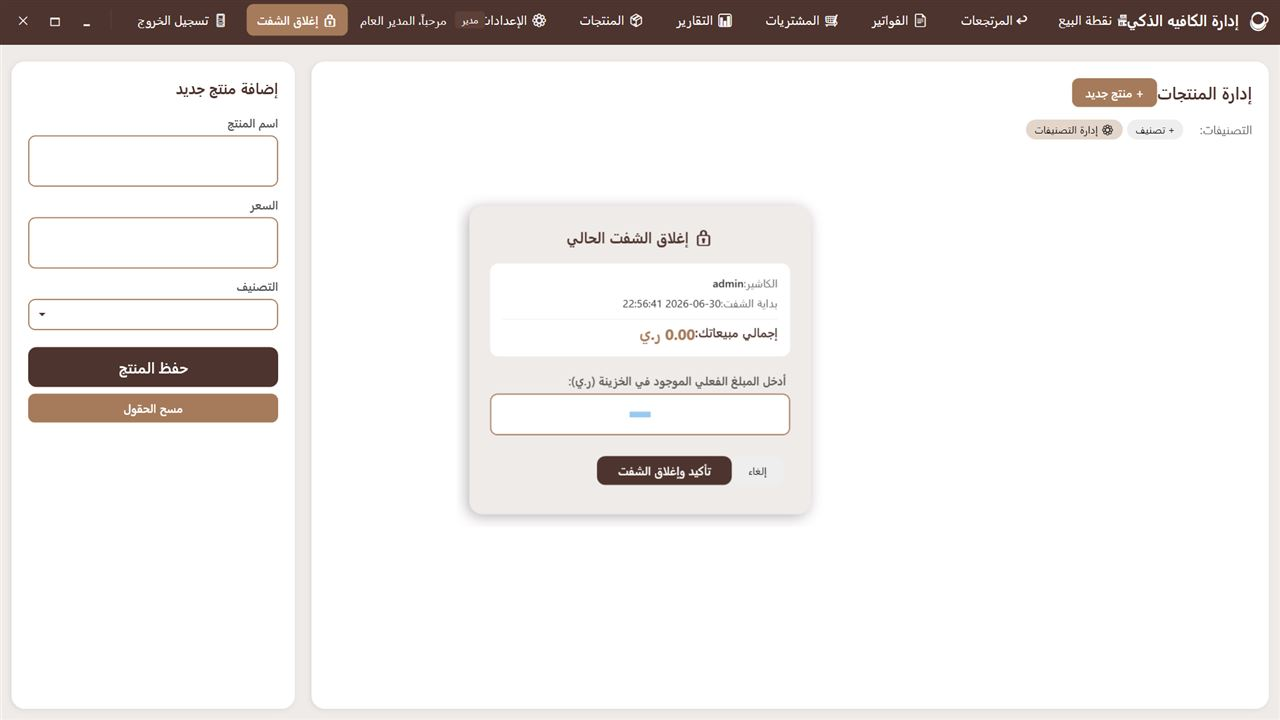
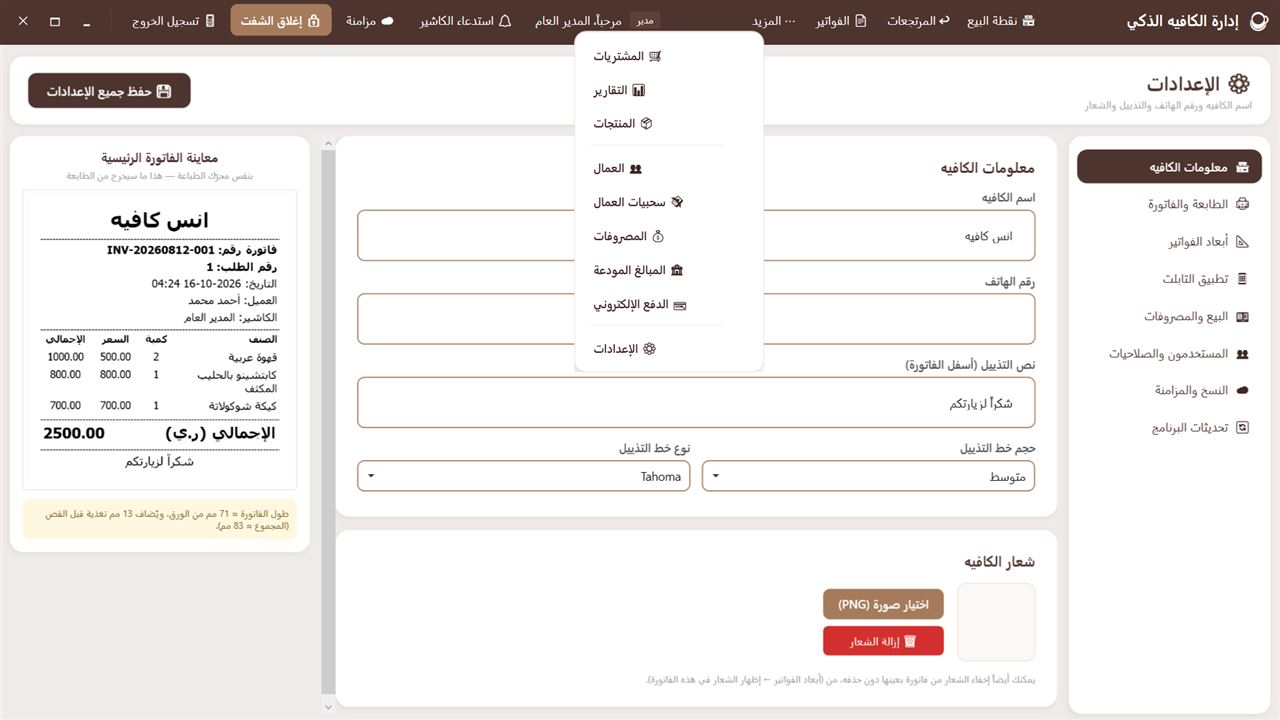
feat: turn apps section into an order showcase
- "Order this app" buttons open WhatsApp with a prefilled message naming
  the app, in the visitor's current language
- Link to the live Quran Centers platform
- New Café POS and Swift Doc screenshots with a thumbnail gallery
- Quran Centers phone screenshots in device frames (hero + apps section);
  student names and phone numbers are pixelated
- Ignore raw screenshots dropped in the site root

Claude-Session: https://claude.ai/code/session_01QRhNG4HfzzqDqd9VouxvN3

diff --git a/index.html b/index.html
@@ -120,11 +120,6 @@ header {
 .screen-bar { display: flex; align-items: center; gap: 8px; height: 38px; padding: 0 14px; border-bottom: 1px solid var(--line); font-size: 13px; font-weight: 500; flex: none; }
 .screen-bar img { width: 20px; height: 20px; border-radius: 6px; object-fit: contain; }
 .screen-shot { flex: 1; min-height: 0; width: 100%; object-fit: cover; object-position: top center; }
-.screen-card { flex: 1; display: grid; place-items: center; align-content: center; gap: 12px; padding: 16px; background: var(--accent-soft); text-align: center; }
-.screen-card img { width: 92px; height: 92px; border-radius: 22px; background: var(--surface); padding: 8px; box-shadow: 0 14px 28px -18px rgba(14, 76, 62, .6); }
-.screen-card strong { font-size: 18px; }
-.chips { display: flex; flex-wrap: wrap; justify-content: center; gap: 6px; }
-.chips span { font-size: 12px; color: var(--accent); background: var(--surface); border-radius: 999px; padding: 2px 10px; }
 
 .ring { position: absolute; inset: auto 0 0 0; height: 31%; }
 .track { position: absolute; inset: 22% 14%; border: 1.5px dashed #b7d8cd; border-radius: 50%; }
@@ -148,12 +143,34 @@ header {
 #work { background: var(--surface); border-block: 1px solid var(--line); }
 .projects { display: grid; gap: 112px; margin-top: 72px; }
 .project { display: grid; grid-template-columns: 1.2fr 1fr; gap: 64px; align-items: center; }
-.project:nth-child(even) .shot { order: 2; }
+.project:nth-child(even) .media { order: 2; }
 .shot { border-radius: var(--radius); overflow: hidden; border: 1px solid var(--line); background: var(--bg); box-shadow: var(--shadow); }
-.shot img { width: 100%; height: auto; transition: transform .8s var(--ease); }
-.shot:hover img { transform: scale(1.02); }
-.shot.logo { display: grid; place-items: center; aspect-ratio: 16 / 10; background: var(--surface); }
-.shot.logo img { width: 44%; }
+.gallery-main { width: 100%; height: auto; transition: transform .8s var(--ease), opacity .25s var(--ease); }
+.shot:hover .gallery-main { transform: scale(1.02); }
+.thumbs { display: flex; gap: 10px; margin-top: 14px; }
+.thumb {
+  width: 96px; aspect-ratio: 16 / 10; padding: 0; overflow: hidden; cursor: pointer; opacity: .55;
+  background: var(--surface); border: 1px solid var(--line); border-radius: 10px;
+  transition: opacity .3s var(--ease), border-color .3s var(--ease), transform .3s var(--ease);
+}
+.thumb img { width: 100%; height: 100%; object-fit: cover; object-position: top; }
+.thumb:hover { opacity: .85; }
+.thumb:active { transform: scale(.97); }
+.thumb.active { opacity: 1; border-color: var(--accent); box-shadow: 0 0 0 1px var(--accent); }
+
+/* phone screenshots shown as device frames */
+.phones { display: flex; justify-content: center; align-items: center; gap: 4%; aspect-ratio: 16 / 10.5; padding: 24px 6%; background: var(--accent-soft); }
+.phones img {
+  width: 26%; height: auto; min-width: 0; aspect-ratio: 9 / 19; object-fit: cover; object-position: top;
+  background: var(--surface); border: 5px solid var(--ink); border-radius: 20px;
+  box-shadow: 0 18px 32px -20px rgba(14, 76, 62, .7);
+}
+.phones img:nth-child(2) { width: 30%; transform: translateY(-5%); }
+.screen .phones { flex: 1; min-height: 0; aspect-ratio: auto; padding: 12px 8%; }
+.screen .phones img { width: auto; height: 86%; border-width: 4px; border-radius: 16px; }
+.screen .phones img:nth-child(2) { width: auto; height: 96%; }
+
+.buy { display: flex; flex-wrap: wrap; gap: 10px; margin-top: 26px; }
 .meta { display: flex; align-items: center; gap: 12px; }
 .num { font-size: 13px; color: var(--faint); }
 .tag { font-size: 13px; font-weight: 500; color: var(--accent); background: var(--accent-soft); padding: 2px 12px; border-radius: 999px; }
@@ -263,7 +280,7 @@ footer .brand img { width: 22px; height: 22px; }
   .showcase { max-width: 560px; width: 100%; justify-self: center; }
   .projects { gap: 80px; }
   .project { gap: 28px; }
-  .project:nth-child(even) .shot { order: 0; }
+  .project:nth-child(even) .media { order: 0; }
   .bento { grid-template-columns: 1fr 1fr; }
   .tile-feature { grid-row: auto; grid-column: span 2; }
 }
@@ -289,7 +306,7 @@ footer .brand img { width: 22px; height: 22px; }
   <div class="wrap nav">
     <a class="brand" href="#top"><img src="favicon.svg" alt=""><span class="ar">أحمد فتحي</span><span class="en">Ahmed Fathi</span></a>
     <nav class="nav-links">
-      <a href="#work"><span class="ar">أعمالي</span><span class="en">Work</span></a>
+      <a href="#work"><span class="ar">التطبيقات</span><span class="en">Apps</span></a>
       <a href="#services"><span class="ar">الخدمات</span><span class="en">Services</span></a>
       <a href="#about"><span class="ar">عنّي</span><span class="en">About</span></a>
       <a href="#contact"><span class="ar">تواصل</span><span class="en">Contact</span></a>
@@ -315,7 +332,7 @@ footer .brand img { width: 22px; height: 22px; }
           <span class="en">Desktop, mobile and web systems for shops, offices and education centers, from the first idea to installation and automatic updates on the client's machines.</span>
         </p>
         <div class="actions reveal" style="--i:3">
-          <a class="btn btn-primary" href="#work"><span class="ar">شاهد أعمالي</span><span class="en">See my work</span>
+          <a class="btn btn-primary" href="#work"><span class="ar">تصفّح التطبيقات</span><span class="en">Browse the apps</span>
             <svg width="18" height="18" viewBox="0 0 24 24" fill="none" stroke="currentColor" stroke-width="2" stroke-linecap="round" stroke-linejoin="round" aria-hidden="true"><path class="flip" d="M5 12h14M13 6l6 6-6 6"/></svg>
           </a>
           <a class="btn" href="#contact"><span class="ar">تواصل معي</span><span class="en">Get in touch</span></a>
@@ -327,23 +344,19 @@ footer .brand img { width: 22px; height: 22px; }
         <div class="screens">
           <figure class="screen">
             <div class="screen-bar"><img src="images/cafepos-icon.png" alt=""><span class="ar">نظام إدارة الكافيه الذكي</span><span class="en">Smart Café POS</span></div>
-            <img class="screen-shot" src="images/cafepos.jpg" width="1280" height="720" alt="شاشة إدارة المنتجات في نظام الكافيه">
+            <img class="screen-shot" src="images/cafepos.jpg" width="1280" height="720" alt="إعدادات الكافيه ومعاينة الفاتورة">
           </figure>
           <figure class="screen">
             <div class="screen-bar"><img src="images/quran.jpg" alt=""><span class="ar">مراكز تحفيظ القرآن</span><span class="en">Quran Centers</span></div>
-            <div class="screen-card">
-              <img src="images/quran.jpg" width="420" height="420" alt="شعار تطبيق مراكز تحفيظ القرآن">
-              <strong><span class="ar">مراكز تحفيظ القرآن</span><span class="en">Quran Centers</span></strong>
-              <div class="chips">
-                <span><span class="ar">الحلقات والطلاب</span><span class="en">Circles & students</span></span>
-                <span><span class="ar">تقارير الحفظ</span><span class="en">Daily reports</span></span>
-                <span><span class="ar">إشعارات الأهالي</span><span class="en">Parent alerts</span></span>
-              </div>
+            <div class="phones">
+              <img src="images/quran-2.jpg" width="540" height="1130" alt="">
+              <img src="images/quran-1.jpg" width="540" height="1134" alt="لوحة تحكم مسؤول النظام في تطبيق مراكز تحفيظ القرآن">
+              <img src="images/quran-3.jpg" width="540" height="1330" alt="">
             </div>
           </figure>
           <figure class="screen">
             <div class="screen-bar"><img src="images/swiftdoc-icon.png" alt=""><span>Swift Doc</span></div>
-            <img class="screen-shot" src="images/swiftdoc.jpg" width="1280" height="680" alt="شاشة عرض الأرشيف في نظام Swift Doc">
+            <img class="screen-shot" src="images/swiftdoc.jpg" width="1280" height="680" alt="لوحة القيادة في نظام Swift Doc">
           </figure>
         </div>
         <div class="ring">
@@ -360,15 +373,21 @@ footer .brand img { width: 22px; height: 22px; }
     <div class="wrap">
       <div class="head">
         <div class="reveal">
-          <div class="eyebrow"><span class="ar">أعمال مختارة</span><span class="en">Selected work</span></div>
-          <h2><span class="ar">مشاريع تعمل عند عملاء حقيقيين</span><span class="en">Systems in real daily use</span></h2>
+          <div class="eyebrow"><span class="ar">تطبيقات جاهزة</span><span class="en">Ready-made apps</span></div>
+          <h2><span class="ar">اطلب نسخة من تطبيقاتي</span><span class="en">Order a copy of my apps</span></h2>
         </div>
-        <p class="lead reveal" style="--i:1"><span class="ar">ثلاثة أنظمة مختلفة تماماً، لكل منها مشكلة مختلفة وحل صُمّم لها تحديداً.</span><span class="en">Three very different systems, each built around its own problem.</span></p>
+        <p class="lead reveal" style="--i:1"><span class="ar">اضغط «اطلب هذا التطبيق» بجانب التطبيق الذي تريده، وتصلني رسالتك على واتساب مباشرة لنتفق على التفاصيل.</span><span class="en">Tap "Order this app" next to the one you want, and your message reaches me on WhatsApp right away so we can sort out the details.</span></p>
       </div>
 
       <div class="projects">
         <article class="project">
-          <div class="shot reveal"><img src="images/cafepos.jpg" width="1280" height="720" loading="lazy" alt="شاشة إدارة المنتجات في نظام الكافيه"></div>
+          <div class="media gallery reveal">
+            <div class="shot"><img class="gallery-main" src="images/cafepos.jpg" width="1280" height="720" loading="lazy" alt="إعدادات الكافيه ومعاينة الفاتورة"></div>
+            <div class="thumbs">
+              <button class="thumb active" type="button" data-src="images/cafepos.jpg" data-alt="إعدادات الكافيه ومعاينة الفاتورة"><img src="images/cafepos.jpg" alt="" loading="lazy"></button>
+              <button class="thumb" type="button" data-src="images/cafepos-2.jpg" data-alt="المستخدمون والصلاحيات في نظام الكافيه"><img src="images/cafepos-2.jpg" alt="" loading="lazy"></button>
+            </div>
+          </div>
           <div class="reveal" style="--i:1">
             <div class="meta"><span class="num mono">01</span><span class="tag"><span class="ar">نقطة بيع · سطح المكتب + أندرويد</span><span class="en">Point of sale · Desktop + Android</span></span></div>
             <div class="app"><img class="app-icon bleed" src="images/cafepos-icon.png" width="160" height="160" loading="lazy" alt=""><h3><span class="ar">نظام إدارة الكافيه الذكي</span><span class="en">Smart Café POS</span></h3></div>
@@ -383,11 +402,23 @@ footer .brand img { width: 22px; height: 22px; }
               <li><span class="ar">مثبّت احترافي وتحديث تلقائي</span><span class="en">Signed installer and automatic updates</span></li>
             </ul>
             <div class="stack"><span>C# / .NET 8</span><span>WPF</span><span>SQLite</span><span>Supabase</span><span>Android</span></div>
+            <div class="buy">
+              <a class="btn btn-primary order" data-app-ar="نظام إدارة الكافيه الذكي" data-app-en="Smart Café POS" href="https://wa.me/967775738156" target="_blank" rel="noopener">
+                <svg width="18" height="18" viewBox="0 0 24 24" fill="none" stroke="currentColor" stroke-width="2" stroke-linecap="round" stroke-linejoin="round" aria-hidden="true"><path d="M21 11.5a8.4 8.4 0 0 1-12.4 7.4L3 21l2.1-5.5A8.5 8.5 0 1 1 21 11.5z"/></svg>
+                <span class="ar">اطلب هذا التطبيق</span><span class="en">Order this app</span>
+              </a>
+            </div>
           </div>
         </article>
 
         <article class="project">
-          <div class="shot logo reveal"><img src="images/quran.jpg" width="420" height="420" loading="lazy" alt="شعار تطبيق مراكز تحفيظ القرآن"></div>
+          <div class="media reveal">
+            <div class="shot phones">
+              <img src="images/quran-2.jpg" width="540" height="1130" loading="lazy" alt="إدارة الطلاب في تطبيق مراكز تحفيظ القرآن">
+              <img src="images/quran-1.jpg" width="540" height="1134" loading="lazy" alt="لوحة تحكم مسؤول النظام في تطبيق مراكز تحفيظ القرآن">
+              <img src="images/quran-3.jpg" width="540" height="1330" loading="lazy" alt="إنشاء تقرير يومي للحلقة">
+            </div>
+          </div>
           <div class="reveal" style="--i:1">
             <div class="meta"><span class="num mono">02</span><span class="tag"><span class="ar">منصة تعليمية · ويب + جوال</span><span class="en">Education platform · Web + Mobile</span></span></div>
             <div class="app"><img class="app-icon" src="images/quran.jpg" width="420" height="420" loading="lazy" alt=""><h3><span class="ar">مراكز تحفيظ القرآن</span><span class="en">Quran Centers</span></h3></div>
@@ -402,11 +433,28 @@ footer .brand img { width: 22px; height: 22px; }
               <li><span class="ar">تطبيق أندرويد من نفس كود الموقع</span><span class="en">Android app built from the same codebase as the web</span></li>
             </ul>
             <div class="stack"><span>React</span><span>TypeScript</span><span>Supabase</span><span>Capacitor</span><span>Firebase</span></div>
+            <div class="buy">
+              <a class="btn btn-primary order" data-app-ar="مراكز تحفيظ القرآن" data-app-en="Quran Centers" href="https://wa.me/967775738156" target="_blank" rel="noopener">
+                <svg width="18" height="18" viewBox="0 0 24 24" fill="none" stroke="currentColor" stroke-width="2" stroke-linecap="round" stroke-linejoin="round" aria-hidden="true"><path d="M21 11.5a8.4 8.4 0 0 1-12.4 7.4L3 21l2.1-5.5A8.5 8.5 0 1 1 21 11.5z"/></svg>
+                <span class="ar">اطلب هذا التطبيق</span><span class="en">Order this app</span>
+              </a>
+              <a class="btn" href="https://felthah.netlify.app" target="_blank" rel="noopener">
+                <span class="ar">الدخول إلى المنصة</span><span class="en">Open the platform</span>
+                <svg width="16" height="16" viewBox="0 0 24 24" fill="none" stroke="currentColor" stroke-width="2" stroke-linecap="round" stroke-linejoin="round" aria-hidden="true"><path class="flip" d="M7 17 17 7M8 7h9v9"/></svg>
+              </a>
+            </div>
           </div>
         </article>
 
         <article class="project">
-          <div class="shot reveal"><img src="images/swiftdoc.jpg" width="1280" height="680" loading="lazy" alt="شاشة عرض الأرشيف في نظام Swift Doc"></div>
+          <div class="media gallery reveal">
+            <div class="shot"><img class="gallery-main" src="images/swiftdoc.jpg" width="1280" height="680" loading="lazy" alt="لوحة القيادة في نظام Swift Doc"></div>
+            <div class="thumbs">
+              <button class="thumb active" type="button" data-src="images/swiftdoc.jpg" data-alt="لوحة القيادة في نظام Swift Doc"><img src="images/swiftdoc.jpg" alt="" loading="lazy"></button>
+              <button class="thumb" type="button" data-src="images/swiftdoc-2.jpg" data-alt="إعدادات النظام والحساب في Swift Doc"><img src="images/swiftdoc-2.jpg" alt="" loading="lazy"></button>
+              <button class="thumb" type="button" data-src="images/swiftdoc-3.jpg" data-alt="شاشة الدخول السريع برمز PIN في Swift Doc"><img src="images/swiftdoc-3.jpg" alt="" loading="lazy"></button>
+            </div>
+          </div>
           <div class="reveal" style="--i:1">
             <div class="meta"><span class="num mono">03</span><span class="tag"><span class="ar">أرشفة إلكترونية · سطح المكتب</span><span class="en">Document archiving · Desktop</span></span></div>
             <div class="app"><img class="app-icon" src="images/swiftdoc-icon.png" width="160" height="160" loading="lazy" alt=""><h3>Swift Doc</h3></div>
@@ -421,6 +469,12 @@ footer .brand img { width: 22px; height: 22px; }
               <li><span class="ar">تفعيل بالترخيص وتحديث تلقائي، بالعربية والإنجليزية</span><span class="en">License activation, auto-updates, Arabic and English</span></li>
             </ul>
             <div class="stack"><span>Electron</span><span>React</span><span>TypeScript</span><span>SQLCipher</span><span>libp2p</span></div>
+            <div class="buy">
+              <a class="btn btn-primary order" data-app-ar="Swift Doc للأرشفة الإلكترونية" data-app-en="Swift Doc" href="https://wa.me/967775738156" target="_blank" rel="noopener">
+                <svg width="18" height="18" viewBox="0 0 24 24" fill="none" stroke="currentColor" stroke-width="2" stroke-linecap="round" stroke-linejoin="round" aria-hidden="true"><path d="M21 11.5a8.4 8.4 0 0 1-12.4 7.4L3 21l2.1-5.5A8.5 8.5 0 1 1 21 11.5z"/></svg>
+                <span class="ar">اطلب هذا التطبيق</span><span class="en">Order this app</span>
+              </a>
+            </div>
           </div>
         </article>
       </div>
@@ -504,8 +558,8 @@ footer .brand img { width: 22px; height: 22px; }
     <div class="wrap contact-grid">
       <div class="reveal">
         <div class="eyebrow"><span class="ar">لنعمل معاً</span><span class="en">Let's work together</span></div>
-        <h2><span class="ar">عندك فكرة نظام أو تطبيق؟</span><span class="en">Have a system or app in mind?</span></h2>
-        <p class="lead"><span class="ar">أرسل لي فكرتك وسأرد عليك بتصور أولي ومدة تقريبية.</span><span class="en">Send me your idea and I'll reply with an initial plan and a rough timeline.</span></p>
+        <h2><span class="ar">تريد أحد تطبيقاتي، أو نظاماً خاصاً بك؟</span><span class="en">Want one of my apps, or a system of your own?</span></h2>
+        <p class="lead"><span class="ar">راسلني بما تحتاجه، وسأرد عليك بالتفاصيل والسعر، أو بتصور أولي ومدة تقريبية إن كانت فكرة جديدة.</span><span class="en">Tell me what you need and I'll reply with details and pricing, or an initial plan and rough timeline for a new idea.</span></p>
       </div>
       <div class="links reveal" style="--i:1">
         <a class="link-row" href="https://wa.me/967775738156" target="_blank" rel="noopener">
@@ -541,16 +595,42 @@ footer .brand img { width: 22px; height: 22px; }
 
   const btn = document.getElementById('lang');
   const titles = { ar: 'أحمد فتحي | مطور تطبيقات وأنظمة', en: 'Ahmed Fathi | Software Developer' };
+  const WHATSAPP = 'https://wa.me/967775738156?text=';
+  const orderText = {
+    ar: (app) => `مرحباً أحمد، أريد طلب نسخة من تطبيق «${app}». أرجو إرسال التفاصيل والسعر.`,
+    en: (app) => `Hi Ahmed, I'd like to order a copy of ${app}. Could you send me the details and price?`,
+  };
+  function updateOrders(lang) {
+    document.querySelectorAll('.order').forEach((a) => {
+      a.href = WHATSAPP + encodeURIComponent(orderText[lang](a.dataset['app' + (lang === 'ar' ? 'Ar' : 'En')]));
+    });
+  }
   function setLang(lang) {
     root.lang = lang;
     root.dir = lang === 'ar' ? 'rtl' : 'ltr';
     document.title = titles[lang];
     btn.textContent = lang === 'ar' ? 'EN' : 'عربي';
+    updateOrders(lang);
     try { localStorage.setItem('lang', lang); } catch (e) {}
   }
   let saved = null;
   try { saved = localStorage.getItem('lang'); } catch (e) {}
-  if (saved === 'en') setLang('en');
+  setLang(saved === 'en' ? 'en' : 'ar');
+
+  document.querySelectorAll('.gallery').forEach((gallery) => {
+    const main = gallery.querySelector('.gallery-main');
+    const thumbs = gallery.querySelectorAll('.thumb');
+    thumbs.forEach((thumb) => thumb.addEventListener('click', () => {
+      if (thumb.classList.contains('active')) return;
+      thumbs.forEach((t) => t.classList.toggle('active', t === thumb));
+      main.style.opacity = 0;
+      setTimeout(() => {
+        main.onload = () => { main.style.opacity = 1; };
+        main.src = thumb.dataset.src;
+        main.alt = thumb.dataset.alt;
+      }, 200);
+    }));
+  });
   btn.addEventListener('click', () => setLang(root.lang === 'ar' ? 'en' : 'ar'));
   document.getElementById('year').textContent = new Date().getFullYear();
 
